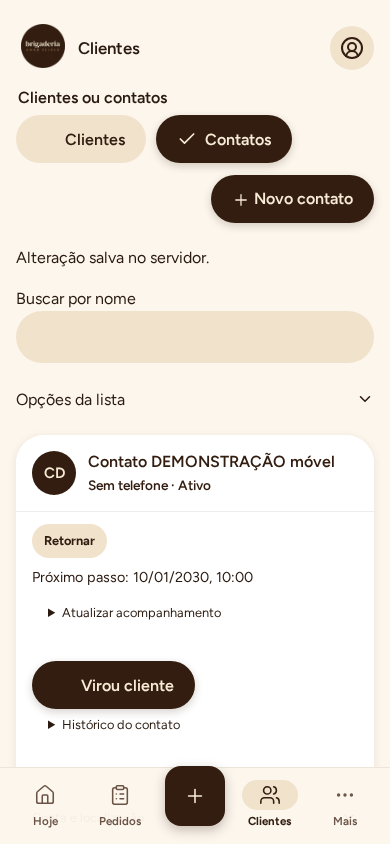
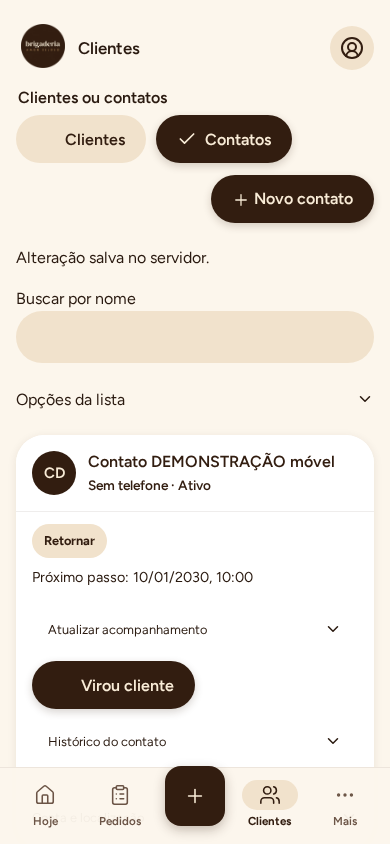
feat(R7a): finalize contact funnel and conversion after main review

Changed region(s): [[0.1231, 0.7085, 0.5538, 0.7701], [0.1231, 0.8318, 0.4615, 0.8934]]

diff --git a/tests/e2e/prospects.spec.js b/tests/e2e/prospects.spec.js
@@ -12,7 +12,7 @@ const flags = {
 
 test('R7a contato, retorno humano e conversão preservam cadastro e histórico', async ({
   browser,
-}) => {
+}, testInfo) => {
   test.setTimeout(90000);
   const t = await runtime(flags);
   const ctx = await browser.newContext({
@@ -95,13 +95,21 @@ test('R7a contato, retorno humano e conversão preservam cadastro e histórico',
       .getByRole('button', { name: 'Salvar acompanhamento', exact: true })
       .click();
     await expect(card.locator('.status-tag')).toHaveText('Retornar');
-    if (process.env.R7A_CAPTURE === '1')
+    if (
+      process.env.R7A_CAPTURE === '1' &&
+      testInfo.project.name === 'chromium-mobile'
+    ) {
+      await p.evaluate(() => window.scrollTo(0, 0));
       await p.screenshot({
         path: 'docs/colaboracao/capturas/r7a-contato-retornar.png',
         scale: 'css',
       });
+    }
     // Contato não aparece entre clientes do Novo pedido antes da conversão.
     await p.goto(t.url + '/gestao/pedidos?novo=1');
+    await expect(
+      p.getByRole('button', { name: 'Cliente DEMONSTRAÇÃO P1', exact: true }),
+    ).toBeVisible();
     await expect(p.getByRole('button', { name, exact: true })).toHaveCount(0);
     await p.goto(t.url + '/gestao/clientes');
     await p
@@ -132,6 +140,20 @@ test('R7a contato, retorno humano e conversão preservam cadastro e histórico',
     await expect(p.getByLabel('Rua/Avenida', { exact: true })).toHaveValue(
       'Local DEMONSTRAÇÃO',
     );
+    await expect(p.getByLabel('Estabelecimento', { exact: true })).toHaveValue(
+      name,
+    );
+    await expect(p.getByLabel('Responsável', { exact: true })).toHaveValue(
+      'Equipe DEMONSTRAÇÃO',
+    );
+    if (
+      process.env.R7A_CAPTURE === '1' &&
+      testInfo.project.name === 'chromium-mobile'
+    )
+      await p.screenshot({
+        path: 'docs/colaboracao/capturas/r7a-convertido.png',
+        scale: 'css',
+      });
     const current = await call('customers/' + created.id, undefined, 'GET');
     expect(current.kind).toBe('customer');
     expect(current.notes).toBe('Observação DEMONSTRAÇÃO');
@@ -159,6 +181,9 @@ test('R7a contato, retorno humano e conversão preservam cadastro e histórico',
     await card.getByText('Histórico do contato', { exact: true }).click();
     await expect(card.getByRole('list')).toContainText('Retornar');
     await expect(card.getByRole('list')).toContainText('Virou cliente');
+    await expect(card.getByRole('list').locator('.staff-identity')).toHaveCount(
+      4,
+    );
     await p.goto(t.url + '/gestao/pedidos?novo=1');
     await expect(p.getByRole('button', { name, exact: true })).toBeVisible();
   } finally {

diff --git a/src/features/prospects/ProspectPanel.tsx b/src/features/prospects/ProspectPanel.tsx
@@ -1,3 +1,5 @@
+import { DisclosureSummary } from '../../components/DisclosureSummary';
+import { StaffIdentity } from '../field/FieldContext';
 import { useState, useRef } from 'react';
 import { useNavigate } from 'react-router-dom';
 import { Button } from '../../components/Button';
@@ -94,6 +96,7 @@ function FollowUp({
 interface History {
   events: {
     id: string;
+    user_id: string;
     from_stage: string;
     to_stage: keyof typeof prospectLabels;
     next_step_at: string;
@@ -178,7 +181,7 @@ export function ProspectPanel({
       {contact && !!customer.active && (
         <>
           <details>
-            <summary>Atualizar acompanhamento</summary>
+            <DisclosureSummary>Atualizar acompanhamento</DisclosureSummary>
             <form
               className="data-form"
               onSubmit={(e) => {
@@ -213,12 +216,14 @@ export function ProspectPanel({
               .catch((e) => setError(e.message));
         }}
       >
-        <summary>Histórico do contato</summary>
+        <DisclosureSummary>Histórico do contato</DisclosureSummary>
         {history && (
           <ul>
             {history.events.map((e) => (
               <li key={e.id}>
                 {dateTime(e.created_at)} · {prospectLabels[e.to_stage]}
+                {' · '}
+                <StaffIdentity id={e.user_id} />
                 {e.from_stage === e.to_stage ? ' (cadastro atualizado)' : ''}
                 {e.next_step_at
                   ? ' · Próximo passo: ' + dateTime(e.next_step_at)

diff --git a/src/features/finance/Profile.tsx b/src/features/finance/Profile.tsx
@@ -59,10 +59,12 @@ function Profile({ id }: { id: string }) {
             Confira as condições abaixo. O cadastro, a localização e o histórico
             do contato foram preservados.
           </p>
-          {!person && (
-            <Button to="/gestao/recorrentes">Criar pedido padrão</Button>
-          )}
-          <Button to="/gestao/pedidos?novo=1">Criar primeiro pedido</Button>
+          <div className="prospect-actions">
+            {!person && (
+              <Button to="/gestao/recorrentes">Criar pedido padrão</Button>
+            )}
+            <Button to="/gestao/pedidos?novo=1">Criar primeiro pedido</Button>
+          </div>
         </section>
       )}
       <Failure message={error || view.error} />

diff --git a/src/features/Management.tsx b/src/features/Management.tsx
@@ -603,7 +603,13 @@ function Customers({
         <Button onClick={() => void list.reload()}>Atualizar lista</Button>
       </details>
       {list.loading ? (
-        <SkeletonList label="Carregando clientes…" />
+        <SkeletonList
+          label={
+            kind === 'prospect'
+              ? 'Carregando contatos…'
+              : 'Carregando clientes…'
+          }
+        />
       ) : list.data.length === 0 ? (
         <div className="mascot-empty">
           <Mascot size={72} />

diff --git a/worker/index.ts b/worker/index.ts
@@ -134,7 +134,12 @@ export default {
         pathname === '/api/prospects' ||
         pathname.startsWith('/api/prospects/')
       )
-        return await prospects(req, env, user);
+        return await afterPlaceWrite(
+          req,
+          await prospects(req, env, user),
+          env,
+          user,
+        );
       if (pathname.startsWith('/api/mobile/'))
         return await mobile(req, env, user);
       if (pathname.startsWith('/api/p1/')) return await p1(req, env, user);

diff --git a/worker/routing.ts b/worker/routing.ts
@@ -301,7 +301,7 @@ export async function afterPlaceWrite(
     const id =
       path.startsWith('/api/field/customers/') && !path.endsWith('/photo')
         ? path.split('/')[4]
-        : /^\/api\/customers(?:\/[^/]+)?$/.test(path)
+        : /^\/api\/(?:customers|prospects)(?:\/[^/]+)?$/.test(path)
           ? ((await res.clone().json()) as { id: string }).id
           : null;
     if (id && (await enqueue(env, a.organization_id, id)))

diff --git a/src/theme.css b/src/theme.css
@@ -921,3 +921,10 @@ body:has(dialog[open]) {
     grid-template-columns: repeat(4, minmax(0, 1fr));
   }
 }
+
+.prospect-actions {
+  display: flex;
+  flex-wrap: wrap;
+  align-items: center;
+  gap: var(--az-space-2);
+}

diff --git a/docs/colaboracao/CODEX_PARA_CLAUDE.md b/docs/colaboracao/CODEX_PARA_CLAUDE.md
@@ -1,3 +1,36 @@
+## R7a — entrega para revisão (16/11/2026)
+
+Branch `codex/r7a-prospect-funnel`, versão **0.13.0**. Main `1dc3689` incorporado: T3c/skeletons, AppUpdate e SheetGestures preservados. Retomado checkpoint0054e47. FILA e VEZ sem edição autoral; somente R7-1, R7-2 e R7-8 nesta entrega.
+
+### Produzido
+
+- **R7-1 concluído:** filtro Clientes/Contatos no mesmo cadastro; contato com nome, pessoa de contato, telefone opcional, origem/observações e localização/foto/Instagram reaproveitados. Arquivamento/reativação pelo mecanismo existente. Contatos não convertidos ficam fora das seleções de vendas; APIs também recusam novos pedidos/modelos para eles.
+- **R7-2 concluído:** chips A visitar/Amostra entregue/Retornar/Não teve interesse; próximo passo sempre explícito (data ou a definir), motivo opcional e histórico com etapa, autor e data. Etapa Amostra entregue é acompanhamento humano; unidades/visitas/produção pertencem à R7b. Mesmos Button/DisclosureSummary/tokens, skeleton para filtro de contatos, sem novo armazenamento local de dados pessoais.
+- **R7-8 concluído:** Virou cliente mantém o mesmo id, dados/local/foto/Instagram/histórico; abre condições B2B e oferece pedido padrão/primeiro pedido. Nomes são reaproveitados em perfil novo, sem sobrescrever perfil configurado. Pessoa continua pessoa e não recebe oferta de pedido padrão. Conversão não gera pedidos, pagamentos, lembretes, despesas ou mensagens.
+- **Banco/operação:** 0024_prospects.sql aditiva, sem seed, com default customer para cadastros anteriores, detalhes/eventos e índices por organização. Flag PROSPECTS_ENABLED=false em ambas configurações; prontidão do schema esconde a função no banco até0023. Tenant/CAS/idempotência/auditoria nas ações. Tabelas novas em backup/KEEP/pré-checagem.
+- Cadastro de contato reutiliza o processamento de rota já configurado para endereços, com cache/orçamento existentes. Sem chamada ao provedor em mudanças do funil/conversão. Guia docs/FASE_R7A.md e capturas DEMONSTRAÇÃO r7a-contato-retornar.png/r7a-convertido.png atualizados.
+
+### Testes executados
+
+- **144 unitários (36 arquivos)** e **223 verificações de segurança**, com toda rota nova na matriz (sem sessão401, outro tenant404; operadora autorizada).
+- Integração R7a: concorrência/CAS, idempotência, entradas inválidas/tentativa de forjar conversão, bloqueio de vendas, conversão sem finanças/lembretes, pessoa e perfil existente preservados, histórico/local/bytes da foto, arquivamento/reativação, flag desligada e banco até0023.
+- Backup/restauração SQLite com FKs e novos dados; limpeza/KEEP preservando contato/eventos; **8 testes SQL** de migração, default/versão dos clientes anteriores e isolamento.
+- **28 verificações de API**; listagens com65 produtos/pedidos e seleção dos200 mais recentes dentre216. Suíte completa de kits e caixas mistas aprovada;67 modelos com41 preparações SQL (orçamento46). Rotas com provedor simulado: endereço de contato calcula/cacheia; etapas/conversão não fazem chamada extra.
+- **21 E2E aprovados nos três projetos** (Chromium móvel/WebKit móvel/Chromium desktop): R7a, T3c, login/cadastros, AppUpdate com SW e gestos das folhas. **6 E2E R7a finais** após acabamentos, nos três projetos: fluxo contato→amostra (etapa)→retornar→converter, nomes/endereço/histórico/autoria preservados, seleção de vendas antes/depois e fallback0023.
+- Tipos, lint, formatação, build Pages e diff sem erros; build mantém aviso preexistente de chunk grande. D1/SQLite efêmeros e dados fictícios; CSP real do harness. CI completo e Segurança serão os automáticos do PR, sem workflow manual.
+
+### Limitações
+
+Sem aparelho físico. Histórico da tela mostra os50 eventos recentes; banco/backup preservam todos. Arquivamento entregue, exclusão física não. Limpeza padrão preserva contatos/histórico; opção de apagar clientes passa a ser recusada por alcançar tabelas KEEP, mesmo vazias (testado/documentado). Nenhuma visita real, amostra de produção, lembrete, despesa ou WhatsApp automatizado implementados nesta etapa.
+
+Nenhuma operação remota Cloudflare/D1, aplicação de migração, catálogo ou serviço pago. A função permanece desligada. Uso mensal de Actions não está disponível à integração; conferir limite da fila antes de novas entregas.
+
+### Pendências
+
+Claude revisar/publicar código após CI/Segurança verdes, sem merge pelo Codex. **Ativação no banco real precisa do Felipe:** backup/restauração conferidos, procedimento autorizado para0024, pré-checagem posterior e decisão de ligar a flag. O guia alerta que o input backup_verified do workflow atual diz “Somente dados de teste”; se houver dados reais, não marcar uma declaração falsa: responsável precisa revisar o procedimento antes de aplicar. Nenhuma ativação foi tentada.
+
+R7-3/4/5 aguardam R7b; R7-6/7/9 aguardam R7c, sempre pela fila. Se CI falhar, seguir diagnóstico no mesmo PR, respeitando as paradas da FILA.
+
 ## R7a — retomada antes do código (16/11/2026)
 
 FILA/main1dc3689 libera somente R7a, versão0.13.0; T3c publicada pelo PR10. Retomado checkpoint0054e47, comparado com main e incorporados skeletons e SheetGestures/AppUpdate. Conflitos de imports, CSS, versão e histórico resolvidos preservando as duas entregas; nenhuma alteração autoral da FILA.
